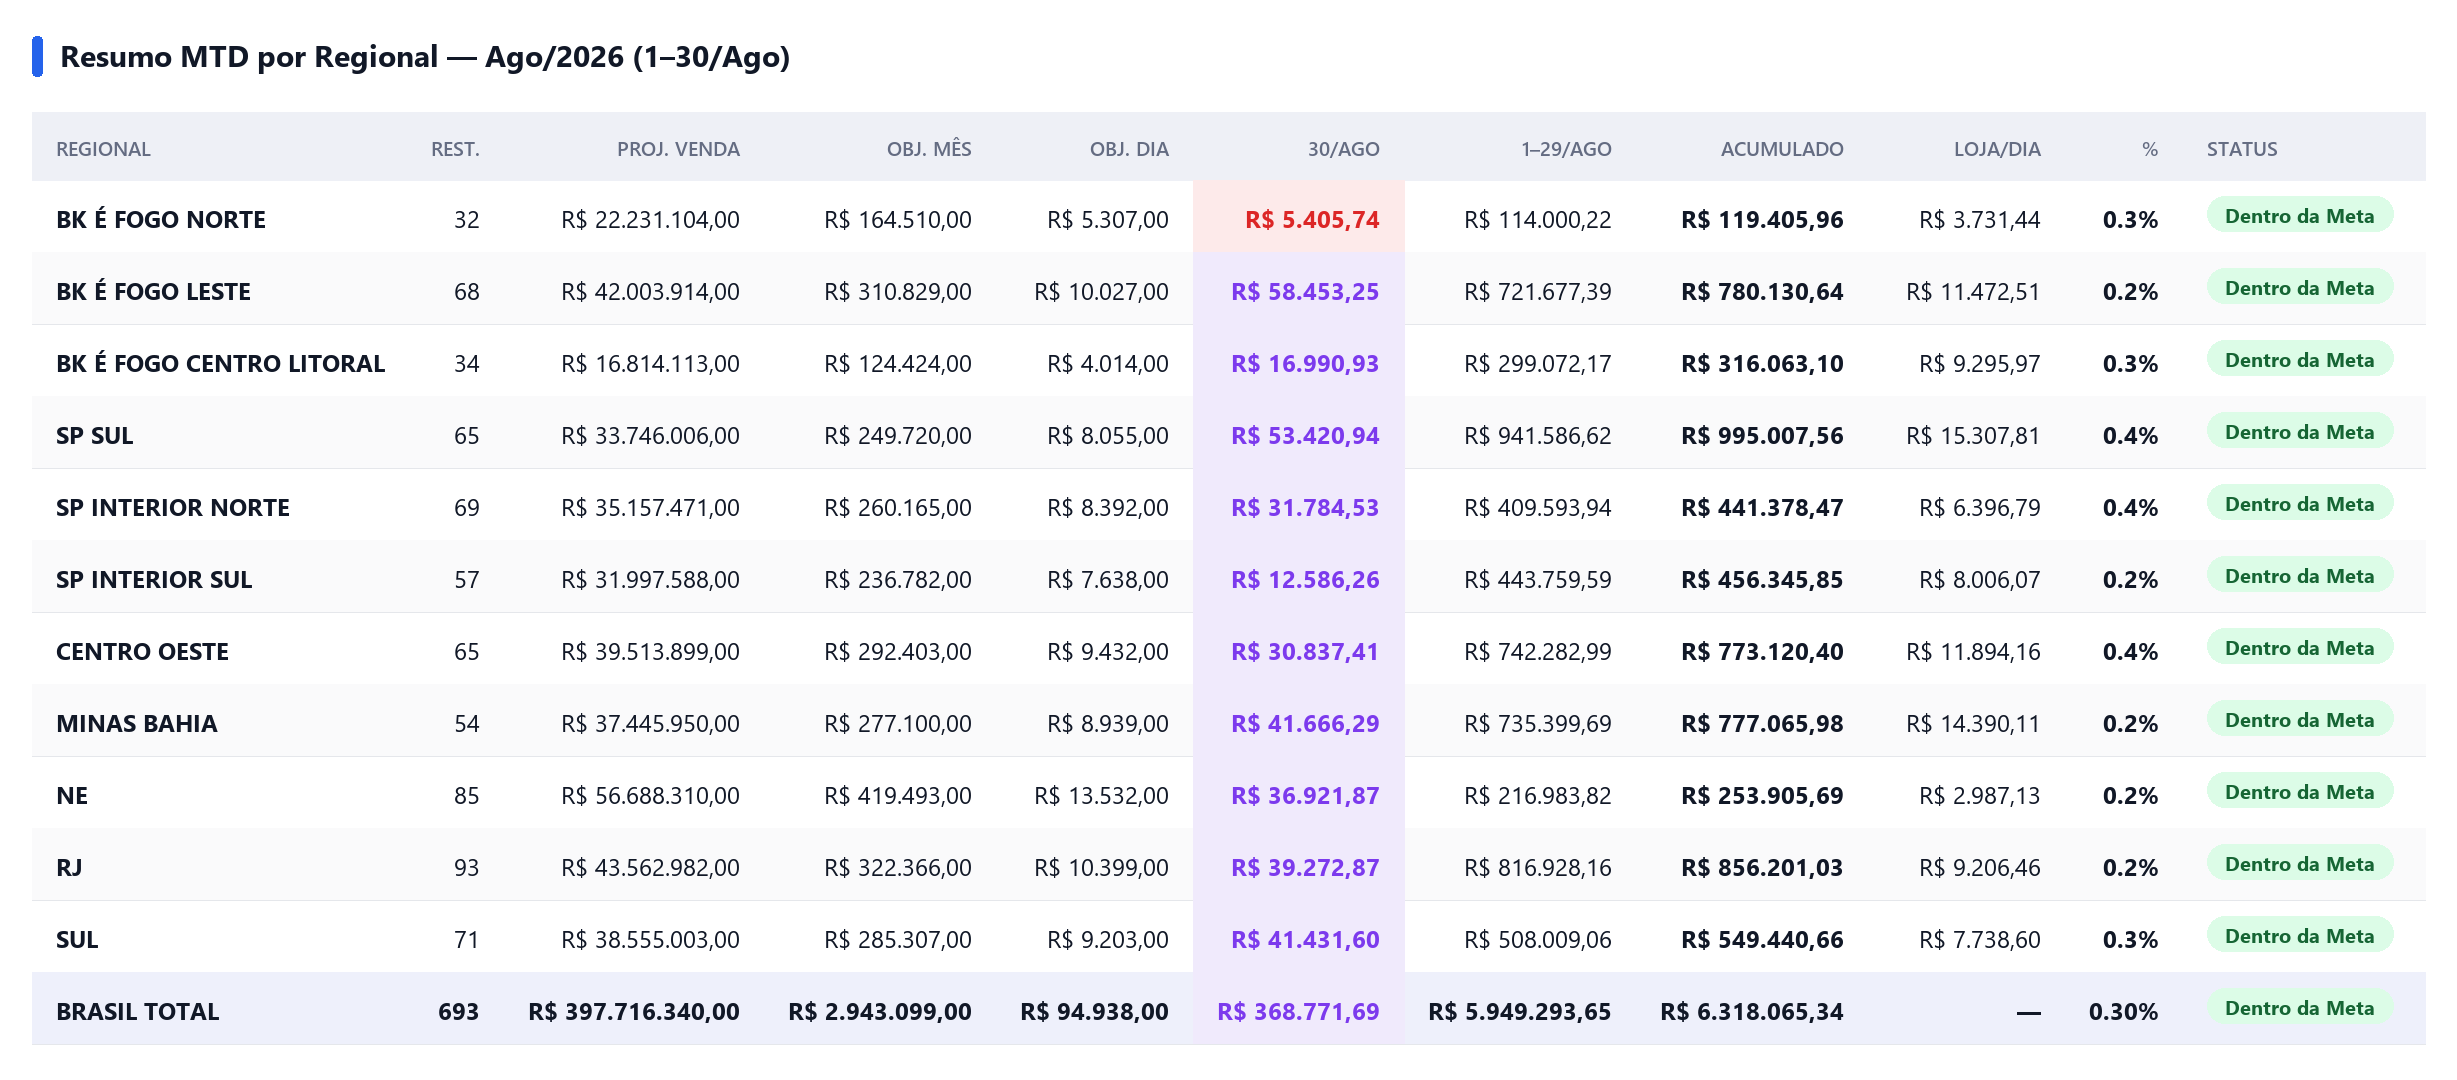
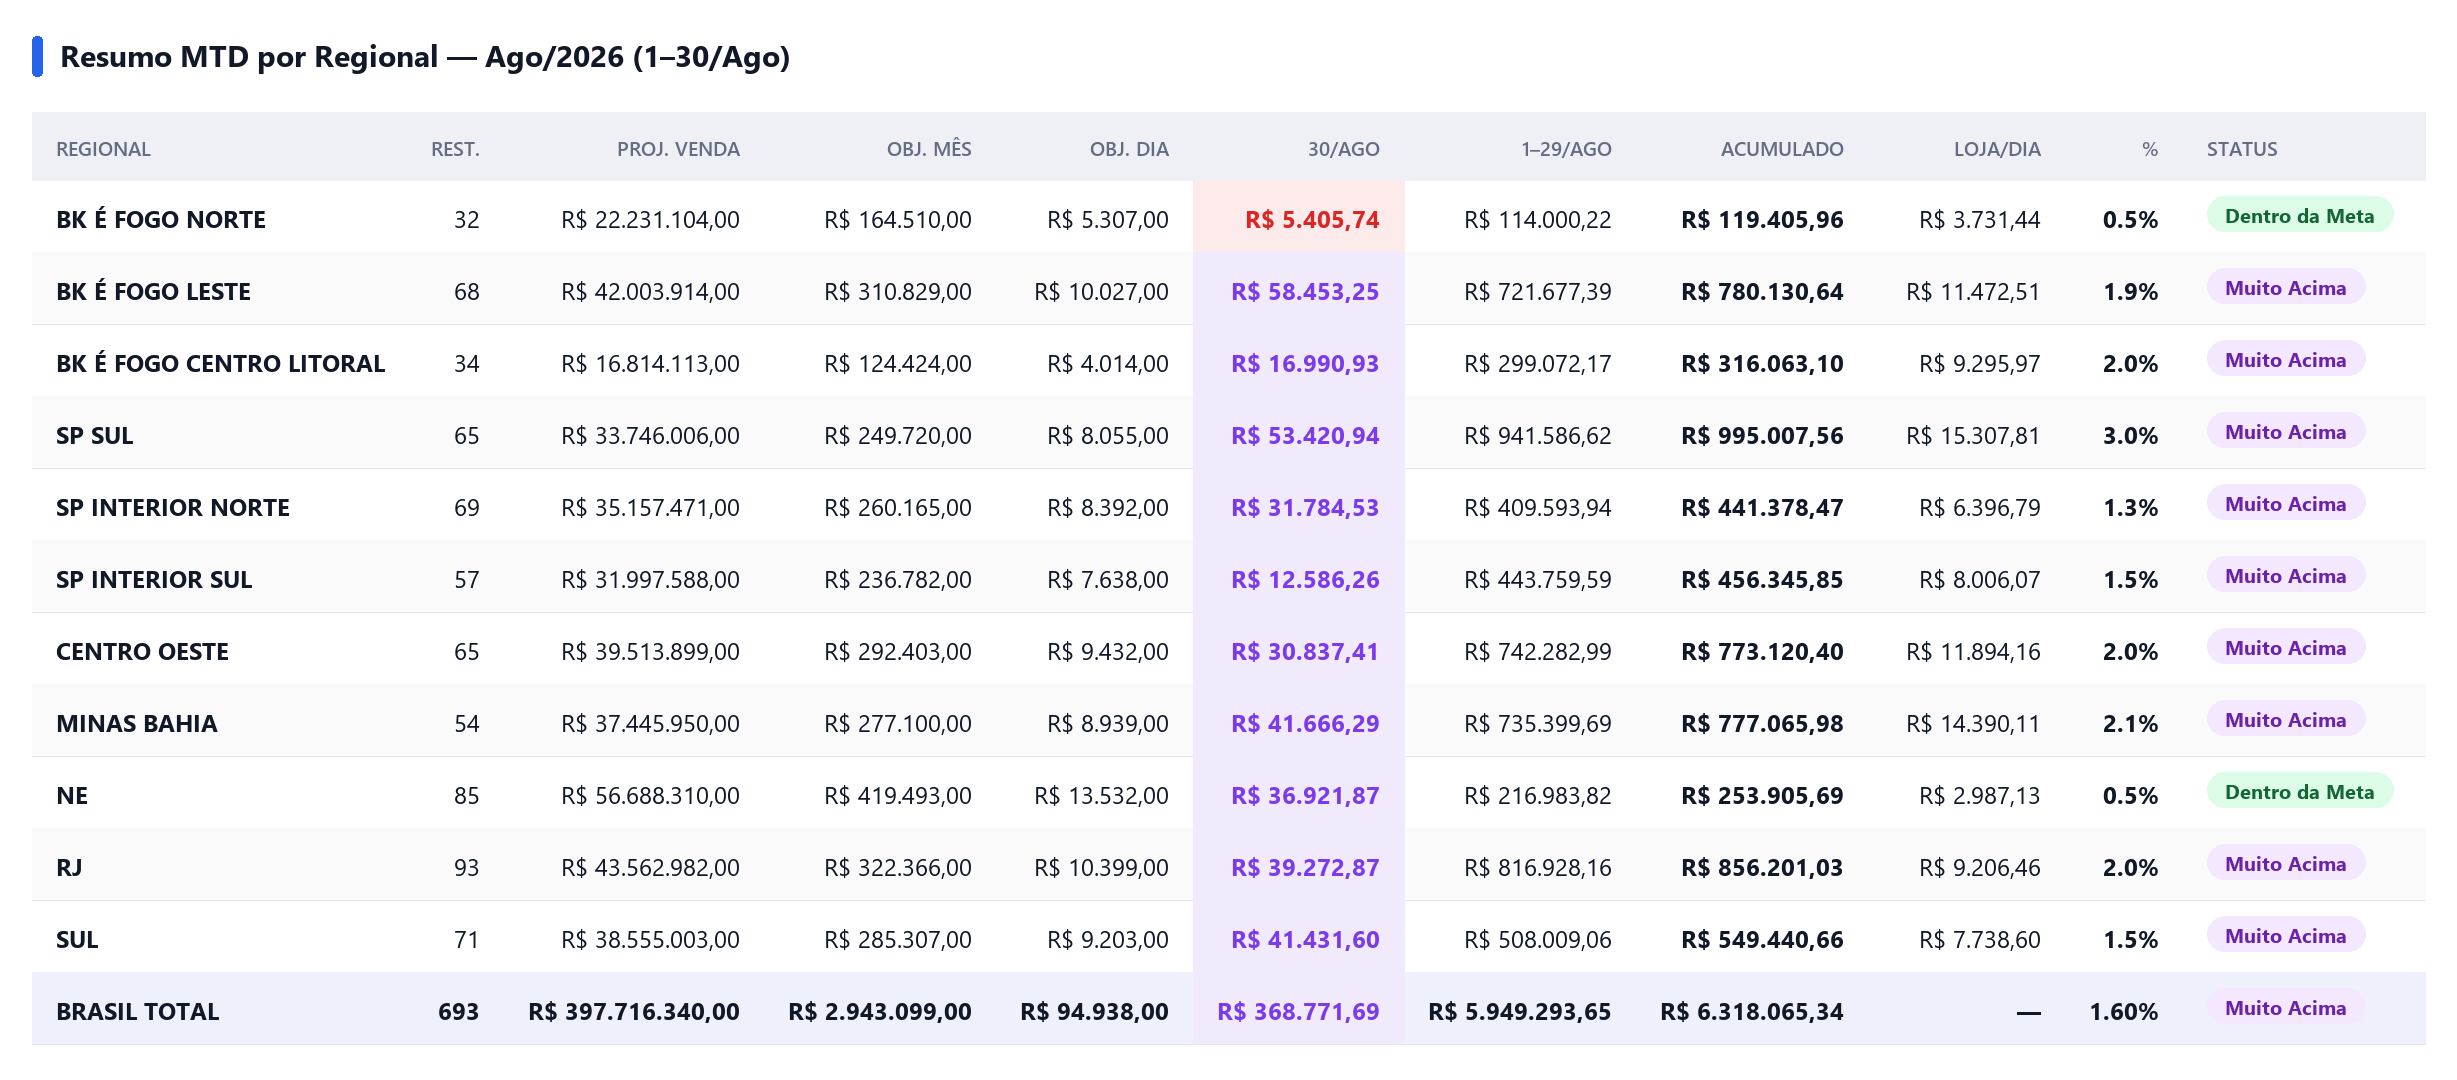
Perda de receita 2026-08-31 (pipeline automatico)

diff --git a/relatorio.html b/relatorio.html
@@ -46,7 +46,7 @@ font-size:12px;padding:2px 0}
     <thead><tr><th>Regional</th><th>Rest.</th><th>Proj. Venda</th><th>Obj. Mês</th>
     <th>Obj. Dia</th><th>30/Ago</th><th>1–29/Ago</th>
     <th>Acumulado</th><th>Loja/Dia</th><th>%</th><th>Status</th></tr></thead>
-    <tbody><tr><td class='reg'>SP SUL</td><td>65</td><td>R$ 33.746.006</td><td>R$ 249.720</td><td>R$ 8.055</td><td class='hl'>R$ 53.420,94</td><td>R$ 941.586,62</td><td class='b'>R$ 995.007,56</td><td>R$ 15.307,81</td><td class='b'>0,4%</td><td><span class='tag meta'>Dentro da Meta</span></td></tr><tr><td class='reg'>RJ</td><td>93</td><td>R$ 43.562.982</td><td>R$ 322.366</td><td>R$ 10.399</td><td class='hl'>R$ 39.272,87</td><td>R$ 816.928,16</td><td class='b'>R$ 856.201,03</td><td>R$ 9.206,46</td><td class='b'>0,2%</td><td><span class='tag meta'>Dentro da Meta</span></td></tr><tr><td class='reg'>BK É FOGO LESTE</td><td>68</td><td>R$ 42.003.914</td><td>R$ 310.829</td><td>R$ 10.027</td><td class='hl'>R$ 58.453,25</td><td>R$ 721.677,39</td><td class='b'>R$ 780.130,64</td><td>R$ 11.472,51</td><td class='b'>0,2%</td><td><span class='tag meta'>Dentro da Meta</span></td></tr><tr><td class='reg'>MINAS BAHIA</td><td>54</td><td>R$ 37.445.950</td><td>R$ 277.100</td><td>R$ 8.939</td><td class='hl'>R$ 41.666,29</td><td>R$ 735.399,69</td><td class='b'>R$ 777.065,98</td><td>R$ 14.390,11</td><td class='b'>0,2%</td><td><span class='tag meta'>Dentro da Meta</span></td></tr><tr><td class='reg'>CENTRO OESTE</td><td>65</td><td>R$ 39.513.899</td><td>R$ 292.403</td><td>R$ 9.432</td><td class='hl'>R$ 30.837,41</td><td>R$ 742.282,99</td><td class='b'>R$ 773.120,40</td><td>R$ 11.894,16</td><td class='b'>0,4%</td><td><span class='tag meta'>Dentro da Meta</span></td></tr><tr><td class='reg'>SUL</td><td>71</td><td>R$ 38.555.003</td><td>R$ 285.307</td><td>R$ 9.203</td><td class='hl'>R$ 41.431,60</td><td>R$ 508.009,06</td><td class='b'>R$ 549.440,66</td><td>R$ 7.738,60</td><td class='b'>0,3%</td><td><span class='tag meta'>Dentro da Meta</span></td></tr><tr><td class='reg'>SP INTERIOR SUL</td><td>57</td><td>R$ 31.997.588</td><td>R$ 236.782</td><td>R$ 7.638</td><td class='hl'>R$ 12.586,26</td><td>R$ 443.759,59</td><td class='b'>R$ 456.345,85</td><td>R$ 8.006,07</td><td class='b'>0,2%</td><td><span class='tag meta'>Dentro da Meta</span></td></tr><tr><td class='reg'>SP INTERIOR NORTE</td><td>69</td><td>R$ 35.157.471</td><td>R$ 260.165</td><td>R$ 8.392</td><td class='hl'>R$ 31.784,53</td><td>R$ 409.593,94</td><td class='b'>R$ 441.378,47</td><td>R$ 6.396,79</td><td class='b'>0,4%</td><td><span class='tag meta'>Dentro da Meta</span></td></tr><tr><td class='reg'>BK É FOGO CENTRO LITORAL</td><td>34</td><td>R$ 16.814.113</td><td>R$ 124.424</td><td>R$ 4.014</td><td class='hl'>R$ 16.990,93</td><td>R$ 299.072,17</td><td class='b'>R$ 316.063,10</td><td>R$ 9.295,97</td><td class='b'>0,3%</td><td><span class='tag meta'>Dentro da Meta</span></td></tr><tr><td class='reg'>NE</td><td>85</td><td>R$ 56.688.310</td><td>R$ 419.493</td><td>R$ 13.532</td><td class='hl'>R$ 36.921,87</td><td>R$ 216.983,82</td><td class='b'>R$ 253.905,69</td><td>R$ 2.987,13</td><td class='b'>0,2%</td><td><span class='tag meta'>Dentro da Meta</span></td></tr><tr><td class='reg'>BK É FOGO NORTE</td><td>32</td><td>R$ 22.231.104</td><td>R$ 164.510</td><td>R$ 5.307</td><td class='hl'>R$ 5.405,74</td><td>R$ 114.000,22</td><td class='b'>R$ 119.405,96</td><td>R$ 3.731,44</td><td class='b'>0,3%</td><td><span class='tag meta'>Dentro da Meta</span></td></tr></tbody>
+    <tbody><tr><td class='reg'>SP SUL</td><td>65</td><td>R$ 33.746.006</td><td>R$ 249.720</td><td>R$ 8.055</td><td class='hl'>R$ 53.420,94</td><td>R$ 941.586,62</td><td class='b'>R$ 995.007,56</td><td>R$ 15.307,81</td><td class='b'>3,0%</td><td><span class='tag muito'>Muito Acima</span></td></tr><tr><td class='reg'>RJ</td><td>93</td><td>R$ 43.562.982</td><td>R$ 322.366</td><td>R$ 10.399</td><td class='hl'>R$ 39.272,87</td><td>R$ 816.928,16</td><td class='b'>R$ 856.201,03</td><td>R$ 9.206,46</td><td class='b'>2,0%</td><td><span class='tag muito'>Muito Acima</span></td></tr><tr><td class='reg'>BK É FOGO LESTE</td><td>68</td><td>R$ 42.003.914</td><td>R$ 310.829</td><td>R$ 10.027</td><td class='hl'>R$ 58.453,25</td><td>R$ 721.677,39</td><td class='b'>R$ 780.130,64</td><td>R$ 11.472,51</td><td class='b'>1,9%</td><td><span class='tag muito'>Muito Acima</span></td></tr><tr><td class='reg'>MINAS BAHIA</td><td>54</td><td>R$ 37.445.950</td><td>R$ 277.100</td><td>R$ 8.939</td><td class='hl'>R$ 41.666,29</td><td>R$ 735.399,69</td><td class='b'>R$ 777.065,98</td><td>R$ 14.390,11</td><td class='b'>2,1%</td><td><span class='tag muito'>Muito Acima</span></td></tr><tr><td class='reg'>CENTRO OESTE</td><td>65</td><td>R$ 39.513.899</td><td>R$ 292.403</td><td>R$ 9.432</td><td class='hl'>R$ 30.837,41</td><td>R$ 742.282,99</td><td class='b'>R$ 773.120,40</td><td>R$ 11.894,16</td><td class='b'>2,0%</td><td><span class='tag muito'>Muito Acima</span></td></tr><tr><td class='reg'>SUL</td><td>71</td><td>R$ 38.555.003</td><td>R$ 285.307</td><td>R$ 9.203</td><td class='hl'>R$ 41.431,60</td><td>R$ 508.009,06</td><td class='b'>R$ 549.440,66</td><td>R$ 7.738,60</td><td class='b'>1,5%</td><td><span class='tag muito'>Muito Acima</span></td></tr><tr><td class='reg'>SP INTERIOR SUL</td><td>57</td><td>R$ 31.997.588</td><td>R$ 236.782</td><td>R$ 7.638</td><td class='hl'>R$ 12.586,26</td><td>R$ 443.759,59</td><td class='b'>R$ 456.345,85</td><td>R$ 8.006,07</td><td class='b'>1,5%</td><td><span class='tag muito'>Muito Acima</span></td></tr><tr><td class='reg'>SP INTERIOR NORTE</td><td>69</td><td>R$ 35.157.471</td><td>R$ 260.165</td><td>R$ 8.392</td><td class='hl'>R$ 31.784,53</td><td>R$ 409.593,94</td><td class='b'>R$ 441.378,47</td><td>R$ 6.396,79</td><td class='b'>1,3%</td><td><span class='tag muito'>Muito Acima</span></td></tr><tr><td class='reg'>BK É FOGO CENTRO LITORAL</td><td>34</td><td>R$ 16.814.113</td><td>R$ 124.424</td><td>R$ 4.014</td><td class='hl'>R$ 16.990,93</td><td>R$ 299.072,17</td><td class='b'>R$ 316.063,10</td><td>R$ 9.295,97</td><td class='b'>2,0%</td><td><span class='tag muito'>Muito Acima</span></td></tr><tr><td class='reg'>NE</td><td>85</td><td>R$ 56.688.310</td><td>R$ 419.493</td><td>R$ 13.532</td><td class='hl'>R$ 36.921,87</td><td>R$ 216.983,82</td><td class='b'>R$ 253.905,69</td><td>R$ 2.987,13</td><td class='b'>0,5%</td><td><span class='tag meta'>Dentro da Meta</span></td></tr><tr><td class='reg'>BK É FOGO NORTE</td><td>32</td><td>R$ 22.231.104</td><td>R$ 164.510</td><td>R$ 5.307</td><td class='hl'>R$ 5.405,74</td><td>R$ 114.000,22</td><td class='b'>R$ 119.405,96</td><td>R$ 3.731,44</td><td class='b'>0,5%</td><td><span class='tag meta'>Dentro da Meta</span></td></tr></tbody>
   </table></div>
 </section>
 
@@ -69,7 +69,7 @@ Projeção fechamento: R$ 6.528.667,52.</pre>
   <div class="scroll"><table style="min-width:420px">
     <thead><tr><th>Indicador</th><th>Antes</th><th>Agora (30/Ago)</th>
     <th>Alerta</th></tr></thead>
-    <tbody><tr><td colspan='4' class='vazio'>nada mudou</td></tr></tbody>
+    <tbody><tr><td class='reg'>BK É FOGO NORTE</td><td class='dim'>0,3%</td><td class='b'>0,5%</td><td><span class='tag acima'>Subiu</span></td></tr><tr><td class='reg'>BK É FOGO LESTE</td><td class='dim'>0,2%</td><td class='b'>1,9%</td><td><span class='tag acima'>Subiu</span></td></tr><tr><td class='reg'>BK É FOGO CENTRO LITORAL</td><td class='dim'>0,3%</td><td class='b'>2,0%</td><td><span class='tag acima'>Subiu</span></td></tr><tr><td class='reg'>SP SUL</td><td class='dim'>0,4%</td><td class='b'>3,0%</td><td><span class='tag acima'>Subiu</span></td></tr><tr><td class='reg'>SP INTERIOR NORTE</td><td class='dim'>0,4%</td><td class='b'>1,3%</td><td><span class='tag acima'>Subiu</span></td></tr><tr><td class='reg'>SP INTERIOR SUL</td><td class='dim'>0,2%</td><td class='b'>1,5%</td><td><span class='tag acima'>Subiu</span></td></tr><tr><td class='reg'>CENTRO OESTE</td><td class='dim'>0,4%</td><td class='b'>2,0%</td><td><span class='tag acima'>Subiu</span></td></tr><tr><td class='reg'>MINAS BAHIA</td><td class='dim'>0,2%</td><td class='b'>2,1%</td><td><span class='tag acima'>Subiu</span></td></tr><tr><td class='reg'>NE</td><td class='dim'>0,2%</td><td class='b'>0,5%</td><td><span class='tag acima'>Subiu</span></td></tr><tr><td class='reg'>RJ</td><td class='dim'>0,2%</td><td class='b'>2,0%</td><td><span class='tag acima'>Subiu</span></td></tr><tr><td class='reg'>SUL</td><td class='dim'>0,3%</td><td class='b'>1,5%</td><td><span class='tag acima'>Subiu</span></td></tr><tr><td class='reg'>BRASIL</td><td class='dim'>0,30%</td><td class='b'>1,60%</td><td><span class='tag acima'>Subiu</span></td></tr></tbody>
   </table></div>
 </section>
 
